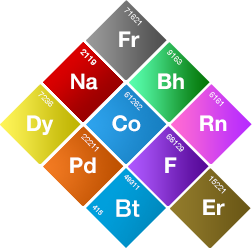
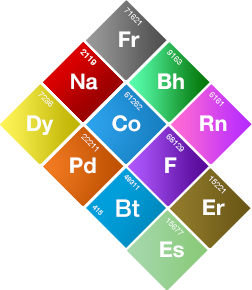
Added Einsteinium

diff --git a/README.md b/README.md
@@ -3,7 +3,7 @@
 > An overview of all the iOS (Swift) related repositories within our 'own' periodic system
 
 
-![Period system](Assets/system.png?002)
+![Period system](Assets/system.png?010)
 
 
 **🤷♂ Why on earth do you use the periodic system?**   
@@ -70,3 +70,9 @@ Just because.
 > Light weight tool for detecting the current device's capabilities.
 
 🔗 **[e-sites/Erbium](https://github.com/e-sites/Erbium)**
+
+
+## `Es` → Einsteinium
+> A collection of swift extensions.
+
+🔗 **[e-sites/Einsteinium](https://github.com/e-sites/Einsteinium)**
